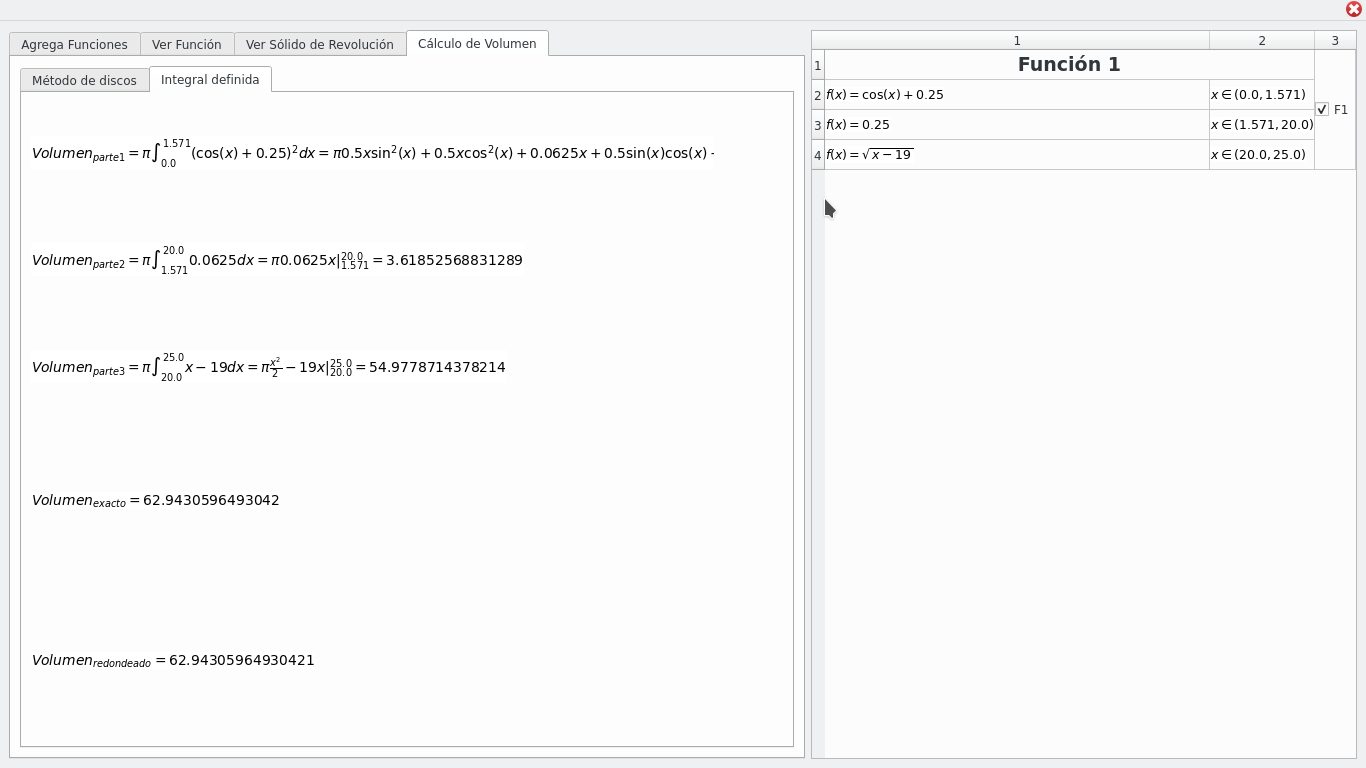
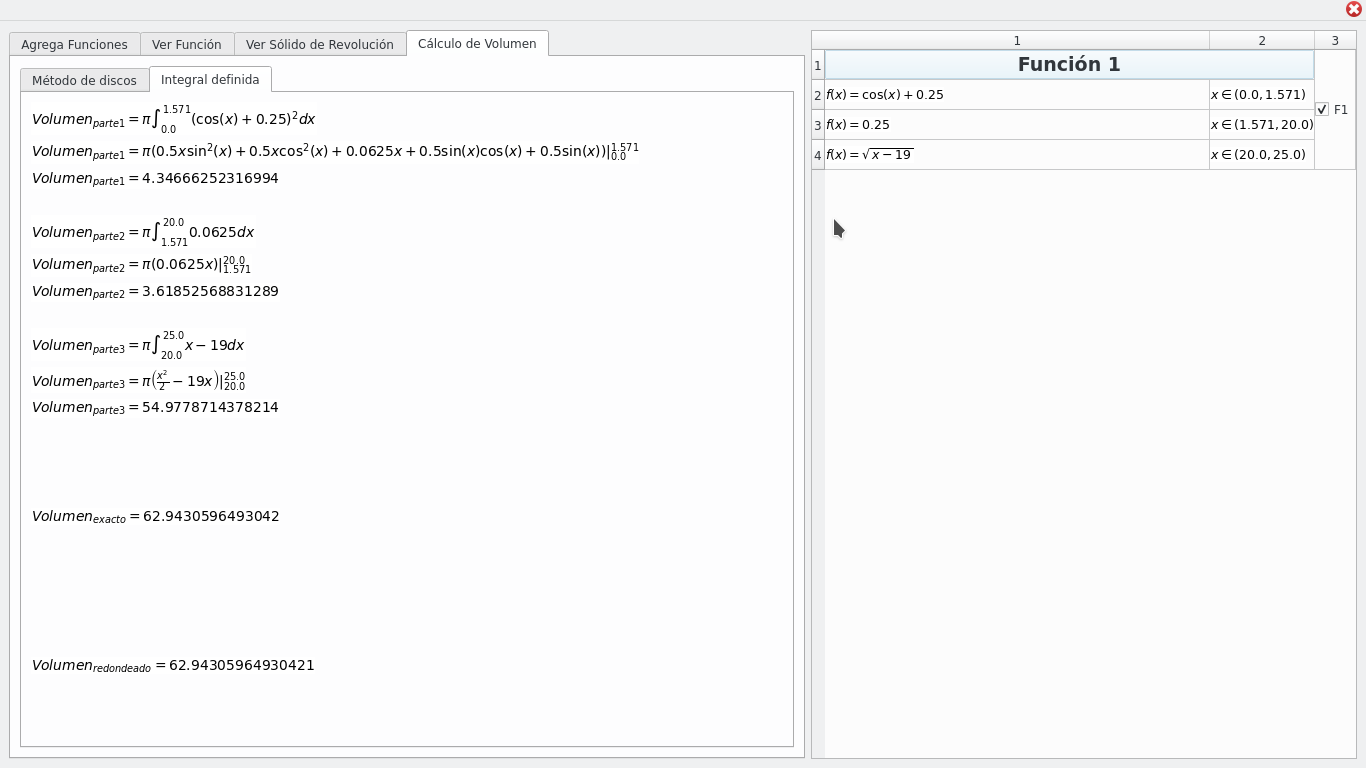
Fixed Disk Method Coordinate Calculation

diff --git a/DefiniteIntegralWidget.py b/DefiniteIntegralWidget.py
@@ -1,4 +1,4 @@
-from PyQt5.QtWidgets import QWidget, QVBoxLayout, QLabel
+from PyQt5.QtWidgets import QWidget, QVBoxLayout, QLabel, QFrame
 from PyQt5.QtGui import QPixmap
 from GlobalVariables import GlobalVariables
 from LatexFormulas import createLatexFormula
@@ -48,8 +48,9 @@ class DefiniteIntegralWidget(QWidget):
         for part in self.mathFunction:
             
             
-            part_label = QLabel()
-            
+            part_label           = QLabel()
+            part_solved_integral = QLabel() 
+            part_volume_label    = QLabel() 
             
             # Integrate this part as function ^ 2 from x0 to x1
             radius_squared = part.f_expression ** 2
@@ -68,17 +69,38 @@ class DefiniteIntegralWidget(QWidget):
             
             
             # Generate Latex formula for current part and diplay it
-            createLatexFormula(r'$Volumen_{parte' +  str(i) +'} = \pi \int_{'+ str(part.x0) +'}^{'+str(part.x1)+'}'+ latex(radius_squared)+r'dx = \pi \left('+latex(integral)+ r'\right)\vert_{'+str(part.x0)+'}^{'+str(part.x1)+'} = '+latex(partVolume)+'$', 'equations/part'+ str(i)+'.png', 100)
+            #createLatexFormula(r'$Volumen_{parte' +  str(i) +'} = \pi \int_{'+ str(part.x0) +'}^{'+str(part.x1)+'}'+ latex(radius_squared)+r'dx = \pi \left('+latex(integral)+ r'\right)\vert_{'+str(part.x0)+'}^{'+str(part.x1)+'} = '+latex(partVolume)+'$', 'equations/part'+ str(i)+'.png', 100)
+            
+            createLatexFormula(r'$Volumen_{parte' +  str(i) +'} = \pi \int_{'+ str(part.x0) +'}^{'+str(part.x1)+'}'+ latex(radius_squared)+r'dx$', 'equations/part'+ str(i)+'.png', 100)
+            
+            createLatexFormula(r'$Volumen_{parte' +  str(i) +'} = \pi \left('+latex(integral)+ r'\right)\vert_{'+str(part.x0)+'}^{'+str(part.x1)+'}$', 'equations/solved_integral_'+ str(i)+'.png', 100)
+            
+            createLatexFormula(r'$Volumen_{parte' +  str(i) +'} = '+latex(partVolume)+'$', 'equations/part_volume_'+ str(i)+'.png', 100)
+            
             
             part_label.setPixmap(QPixmap('equations/part'+ str(i)+'.png'))
             part_label.setMaximumWidth(0.5 * GlobalVariables.screenWidth)
+            
+            part_solved_integral.setPixmap(QPixmap('equations/solved_integral_'+ str(i)+'.png'))
+            part_solved_integral.setMaximumWidth(0.5 * GlobalVariables.screenWidth)
+            
+            part_volume_label.setPixmap(QPixmap('equations/part_volume_'+ str(i)+'.png'))
+            part_volume_label.setMaximumWidth(0.5 * GlobalVariables.screenWidth)
             
             i += 1
             
             self.exactVolume += partVolume
             self.labelParts.append(part_label)
+            self.labelParts.append(part_solved_integral)
+            self.labelParts.append(part_volume_label)
+            
+            self.topLayout.addWidget(self.labelParts[len(self.labelParts)-3])
+            self.topLayout.addWidget(self.labelParts[len(self.labelParts)-2])
             self.topLayout.addWidget(self.labelParts[len(self.labelParts)-1])
-        
+            
+            # Add empty label between parts
+            self.topLayout.addWidget(QLabel(""))
+            
         # Generate Latex formula for results part and diplay it
         createLatexFormula(r'$Volumen_{exacto} = '+latex(self.exactVolume)+'$', 'equations/exactVolume.png', 100)
         self.labelVolume.setPixmap(QPixmap('equations/exactVolume.png'))

diff --git a/SolidRevCalculations.py b/SolidRevCalculations.py
@@ -58,17 +58,21 @@ def calculateCoordinates(mathFunction, diskAmount, function_circle_points, funct
         X[i] = X_range
     
     currentIndex = 0
+    
+    # Store this value to set x1 of last part as x0 of next part
+    x0_part = mathFunction[0].x0
+    
     # Create Lambda Expressions for each function part and evaluate corresponding points
     for part in mathFunction:
-        
-        x_values = np.arange(part.x0 + 0.5*deltaX, part.x1, deltaX)
+
+        x_values = np.arange(part.x0 + 0.5*deltaX, part.x1 - 0.5*deltaX, deltaX)
         x_amount = len(x_values)
         f        = lambdify("x", part.f_expression, "numpy")
         f_eval   = f(x_values)
         
         if not isinstance(f_eval, (list,)):
             f_eval = np.full(x_amount, f_eval)
-        
+
         for i in range(x_amount):
             F_vals              = np.full((function_circle_points,function_x_points), f_eval[i])    
             Y[currentIndex + i] = F_vals * np.cos(V)
